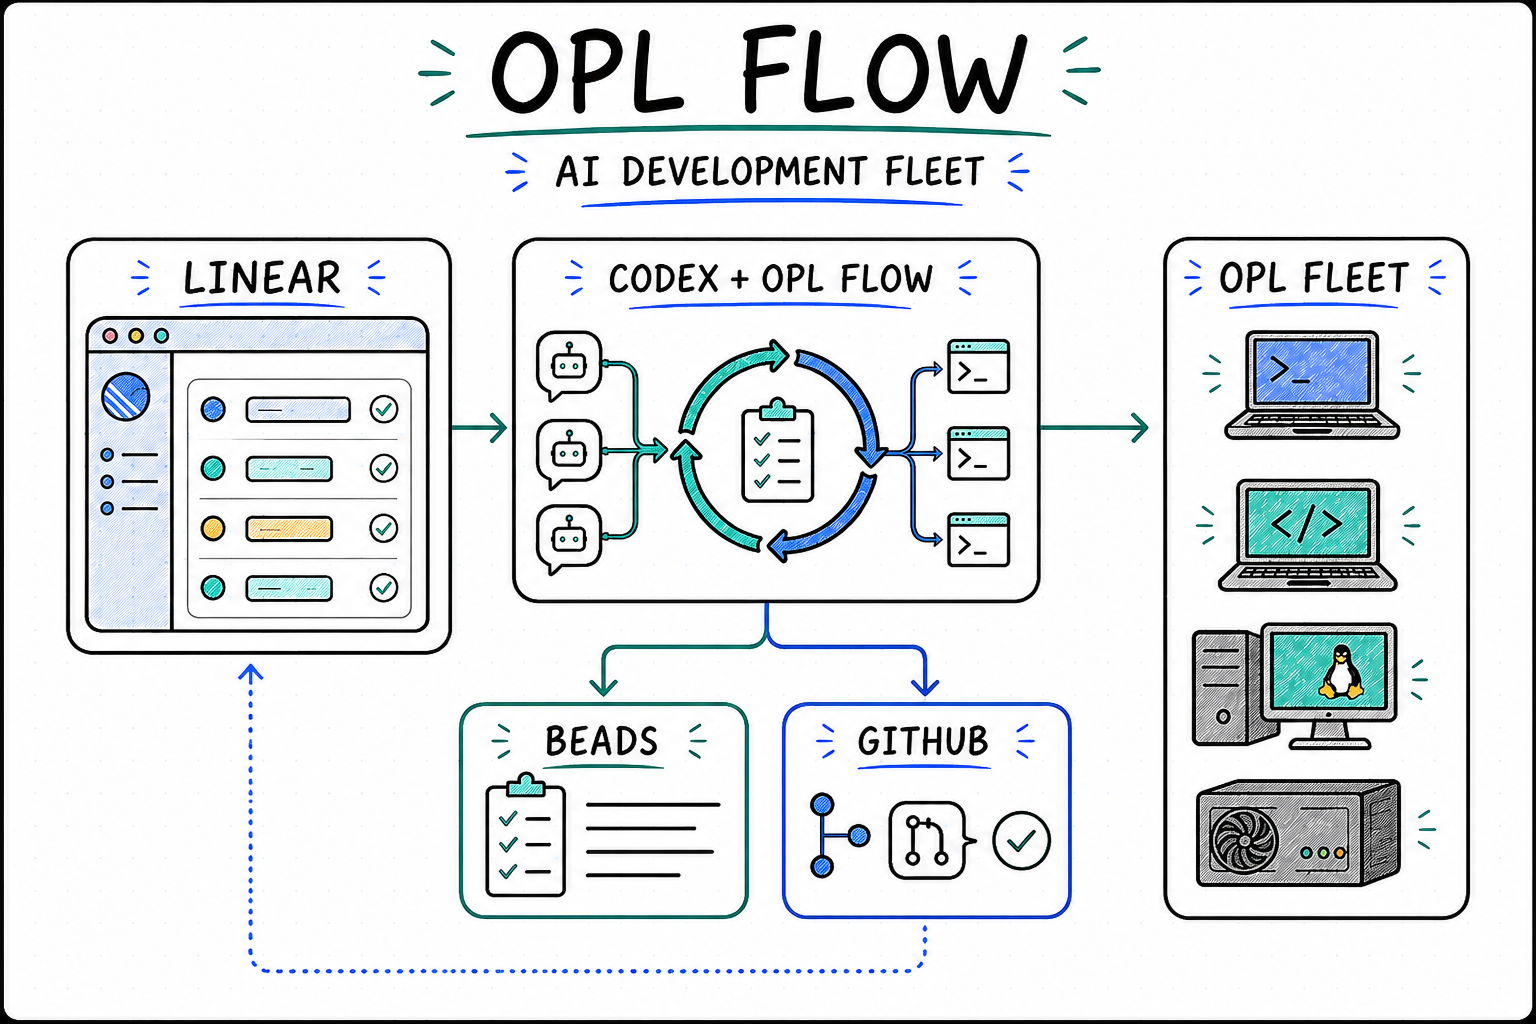
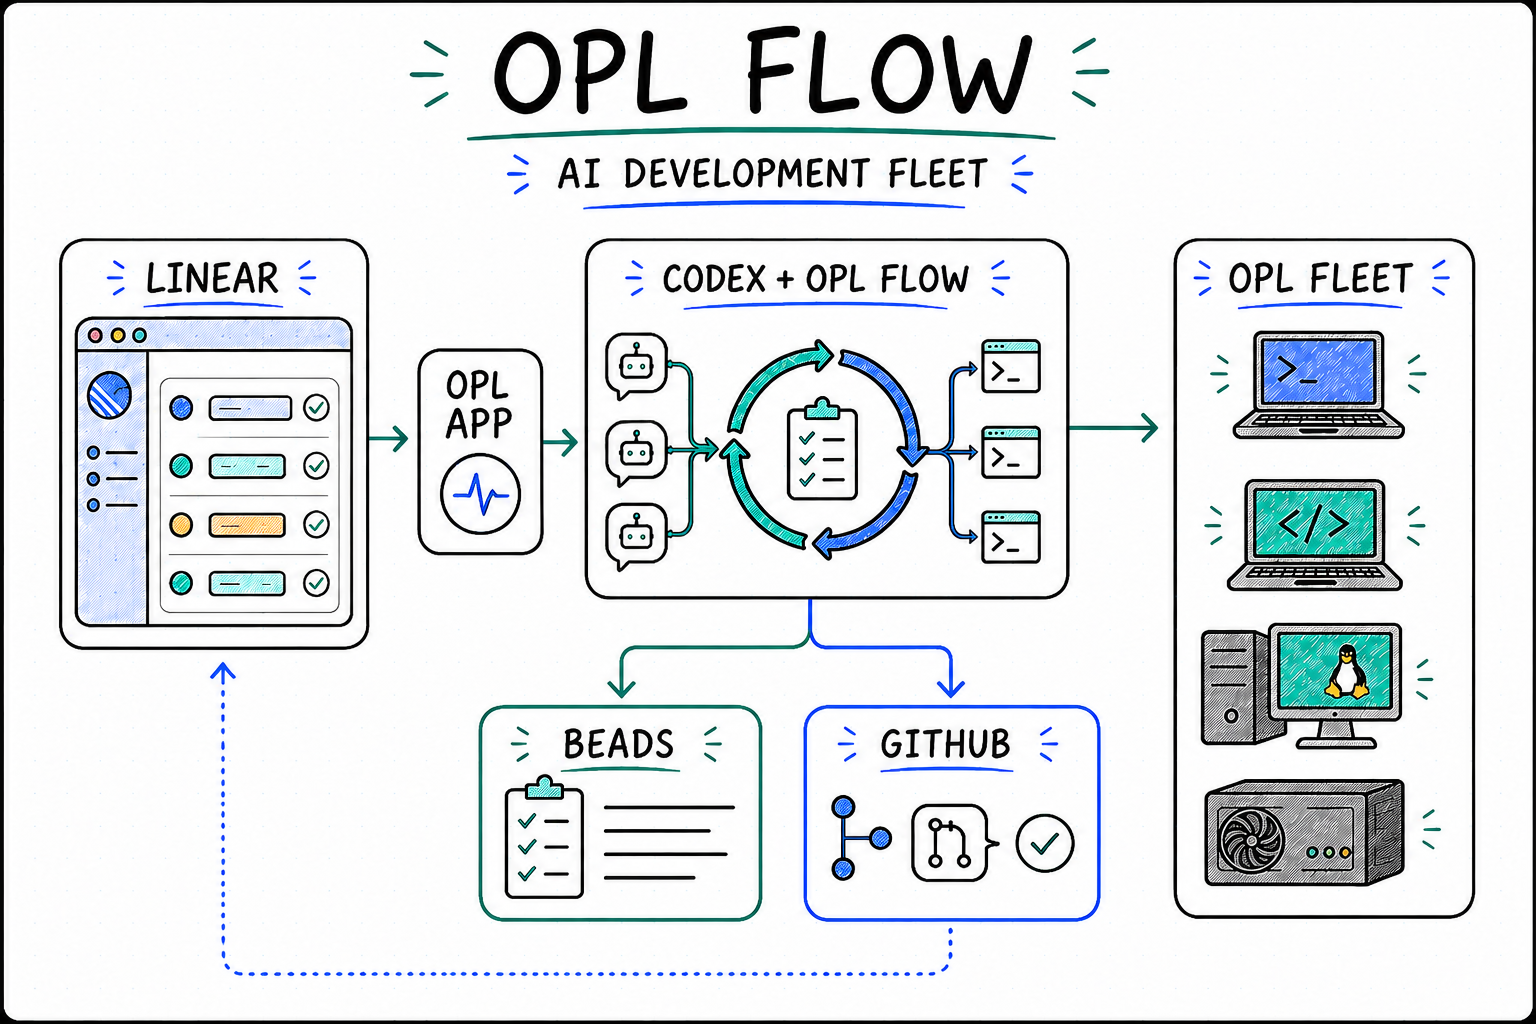
docs: route Linear intake through local OPL App

Changed region(s): [[0.0312, 0.0312, 0.9688, 0.9375], [0.1562, 0.9375, 0.5938, 0.9688]]

diff --git a/docs/reusable-workflow-architecture.md b/docs/reusable-workflow-architecture.md
@@ -24,9 +24,9 @@ OPL Flow keeps Codex model-native:
   Codex scheduling or dispatch agents.
 - **OPL Fleet** supplies optional multi-machine enrollment, capability
   reconciliation, repository currentness, admission, and dispatch.
-- Linear is an optional human intake and progress portal. Its normal path is
-  the official Codex integration plus narrow status/result writeback; it is not
-  the execution or ledger authority.
+- Linear is an optional human intake and progress portal. On the primary local
+  path, the OPL App heartbeat admits `codex-ready` work with no Cloud delegate
+  to local Codex/OPL Flow; it is not the execution or ledger authority.
 - Gas City/Gas Town is not part of the supported architecture.
 
 ## Product And Repository Names
@@ -75,16 +75,18 @@ need.
 The supported interaction path is:
 
 ```text
-Linear -> Codex/OPL Flow -> Beads Ledger + GitHub delivery evidence -> Linear narrow writeback
-                                      |
-                                    Fleet
+Linear -> OPL App heartbeat -> local Codex/OPL Flow -> Beads Ledger + GitHub delivery evidence -> Linear narrow writeback
+                                                        |
+                                                      Fleet
 ```
 
-Codex creates or links the Bead after accepting a Linear task. Beads remains
-the durable internal ledger, GitHub remains the branch/PR/CI/release evidence
-authority, and Linear receives only human-useful stage, blocker, result, and
-delivery links. Beads' official Linear adapter is retained for migration,
-recovery, and audit; it is not the daily full-mirror path.
+The OPL App heartbeat is a lightweight local intake bridge, not another ledger
+or scheduler. Codex creates or links the Bead after accepting a Linear task.
+Beads remains the durable internal ledger, GitHub remains the
+branch/PR/CI/release evidence authority, and Linear receives only human-useful
+stage, blocker, result, and delivery links. Beads' official Linear adapter is
+retained for migration, recovery, and audit; it is not the daily full-mirror
+path.
 
 Each user gets one private instance:
 
@@ -240,8 +242,8 @@ The `$opl-flow` Skill coordinates these steps:
 The orchestration stays model-native rather than reimplementing package managers
 or owner APIs. `scripts/opl_workflow.py status` is the machine-readable doctor;
 `profile status/prepare/apply` owns Profile safety; ordinary Dolt and Linear
-commands remain direct `bd` calls, while normal Linear intake uses the official
-Codex integration and `bd linear` is reserved for migration/recovery/audit;
+commands remain direct `bd` calls, while normal local Linear intake uses the
+OPL App heartbeat and `bd linear` is reserved for migration/recovery/audit;
 Fleet remains optional. Only external private
 repository creation, OAuth, or another owner-required authorization remains
 interactive. Core setup does not require OPL App, a continuously running
@@ -259,9 +261,9 @@ controller, inbound SSH, Linear, or Fleet.
 
 - **Implemented in source:** safe Beads initialization, Operations Registry
   reconciliation, and the Instance-backed Fleet entry. Ordinary ledger and
-  Dolt operations use the official `bd` CLI directly; normal Linear intake uses
-  the official Codex integration, with `bd linear` reserved for migration,
-  recovery, and audit.
+  Dolt operations use the official `bd` CLI directly; normal local Linear intake
+  uses the OPL App heartbeat, with `bd linear` reserved for migration, recovery,
+  and audit.
 - **Implemented in source:** the guided `$opl-flow setup` / `update` Agent
   workflow plus machine-readable tool/auth/Profile/Ledger/Fleet readback. The
   source script remains a narrow owner surface, not a second package manager.

diff --git a/README.md b/README.md
@@ -12,7 +12,7 @@
 <p align="center">Raise the floor for one Codex. Keep many agents, repositories, and machines moving from one durable source of truth.</p>
 
 <p align="center">
-  <img src="assets/branding/opl-flow-ai-fleet.png" alt="Linear enters Codex and OPL Flow, which connect Beads, GitHub, and OPL Fleet before narrow writeback to Linear" width="100%" />
+  <img src="assets/branding/opl-flow-ai-fleet.png" alt="Linear enters the local Codex and OPL Flow through the OPL App heartbeat, which connects Beads, GitHub, and OPL Fleet before narrow writeback to Linear" width="100%" />
 </p>
 
 ## Why OPL Flow
@@ -49,7 +49,7 @@ the complete stack without changing the underlying development model.
 | One machine | A concise user Profile, workflow preferences, and reusable Skills | Codex reasoning, tools, project files, and repository instructions |
 | Several active tasks | Ownership, recovery, fresh-SSOT integration, and closeout conventions | Codex native multi-agent and conversation coordination |
 | Long-lived work | OPL Ledger initialization and idempotent reconciliation | Beads owns the database, dependency graph, claims, and Dolt sync |
-| Human visibility | The official Linear/Codex intake and narrow progress writeback | Linear is a portal, not task truth or an agent dispatcher |
+| Human visibility | Linear intake, local OPL App heartbeat, and narrow progress writeback | Linear is a portal, not task truth or an agent scheduler |
 | Several machines | A reusable Fleet engine for status, admission, repository currentness, and dispatch policy | Each machine installs from component owners; a private Instance owns topology and policy |
 
 This is why OPL Flow is no longer only an OPL App companion module. It remains
@@ -62,7 +62,8 @@ development.
 ```mermaid
 flowchart LR
     U[Developer] --> L[Linear]
-    L --> C[Codex]
+    L --> A[OPL App<br/>heartbeat]
+    A --> C[Codex]
     C <--> F[OPL Flow]
     F --> B[OPL Ledger<br/>Beads]
     F --> G[GitHub]
@@ -84,10 +85,12 @@ flowchart LR
 
 Flow does not become a central planner. It does not decide domain truth,
 quality, release acceptance, or what the model must think next. Beads does not
-wake Codex, Linear does not become an agent scheduler, and Fleet does not copy private
-sessions or tool binaries between machines. The normal intake path is Linear's
-official Codex integration; Beads' Linear adapter is reserved for migration,
-recovery, and audit rather than daily full mirroring.
+wake Codex, Linear does not become an agent scheduler, and Fleet does not copy
+private sessions or tool binaries between machines. The normal local intake
+path is the OPL App heartbeat consuming `codex-ready` work with no Cloud delegate
+and starting local Codex/OPL Flow. ChatGPT Codex or Cloud delegation is not the
+default path; Beads' Linear adapter is reserved for migration, recovery, and
+audit rather than daily full mirroring.
 
 ## Core Capabilities
 
@@ -106,8 +109,9 @@ directly. Beads remains the storage and synchronization authority.
 
 ### Optional Linear Portal
 
-Flow documents and reports the official Linear/Codex connection. Codex creates
-or links the Bead after accepting a Linear task, then writes only stage,
+Flow documents and reports the local Linear intake bridge. The OPL App heartbeat
+hands an accepted task to local Codex/OPL Flow. Codex creates or links the Bead,
+then writes only stage,
 blocker, result, and delivery links back to Linear. The Beads Linear adapter is
 used only for migration, recovery, and audit; it never becomes a daily full
 mirror and never stores an API key in Flow, Git, or task text.
